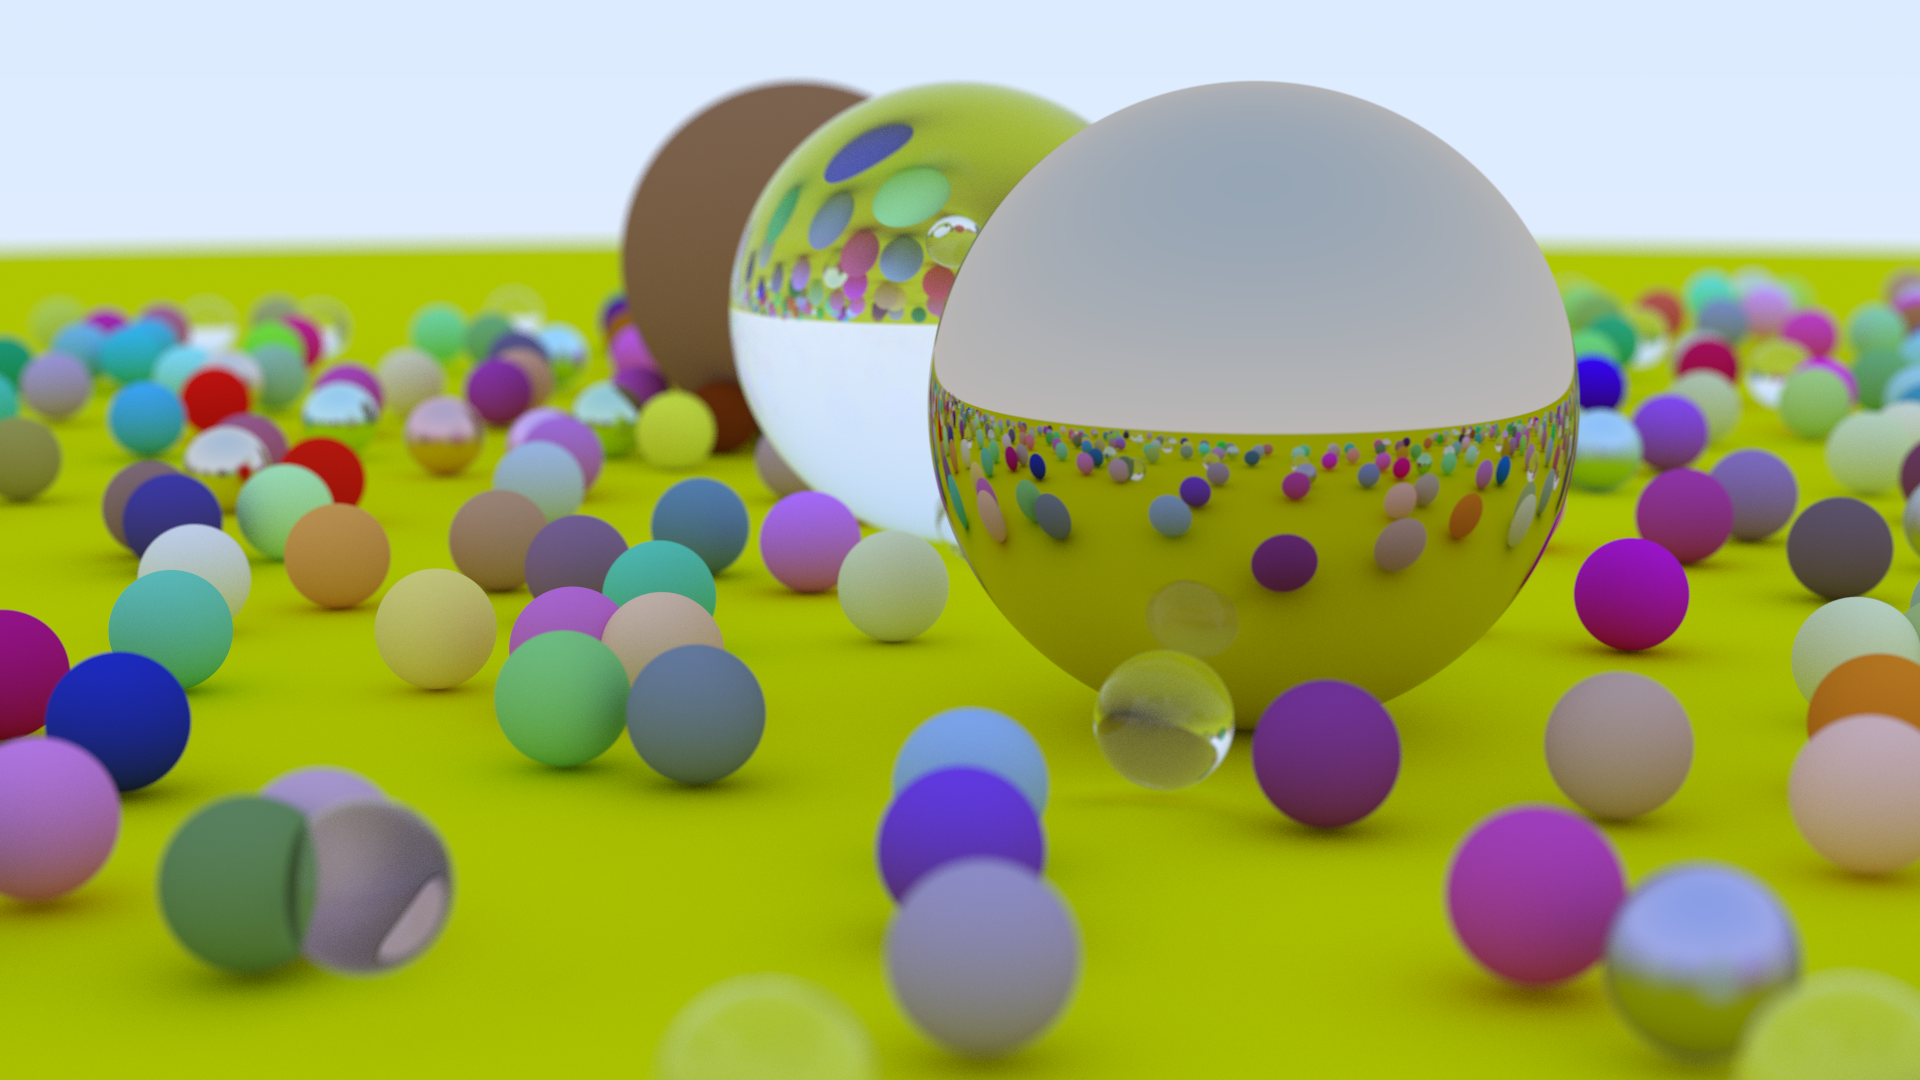
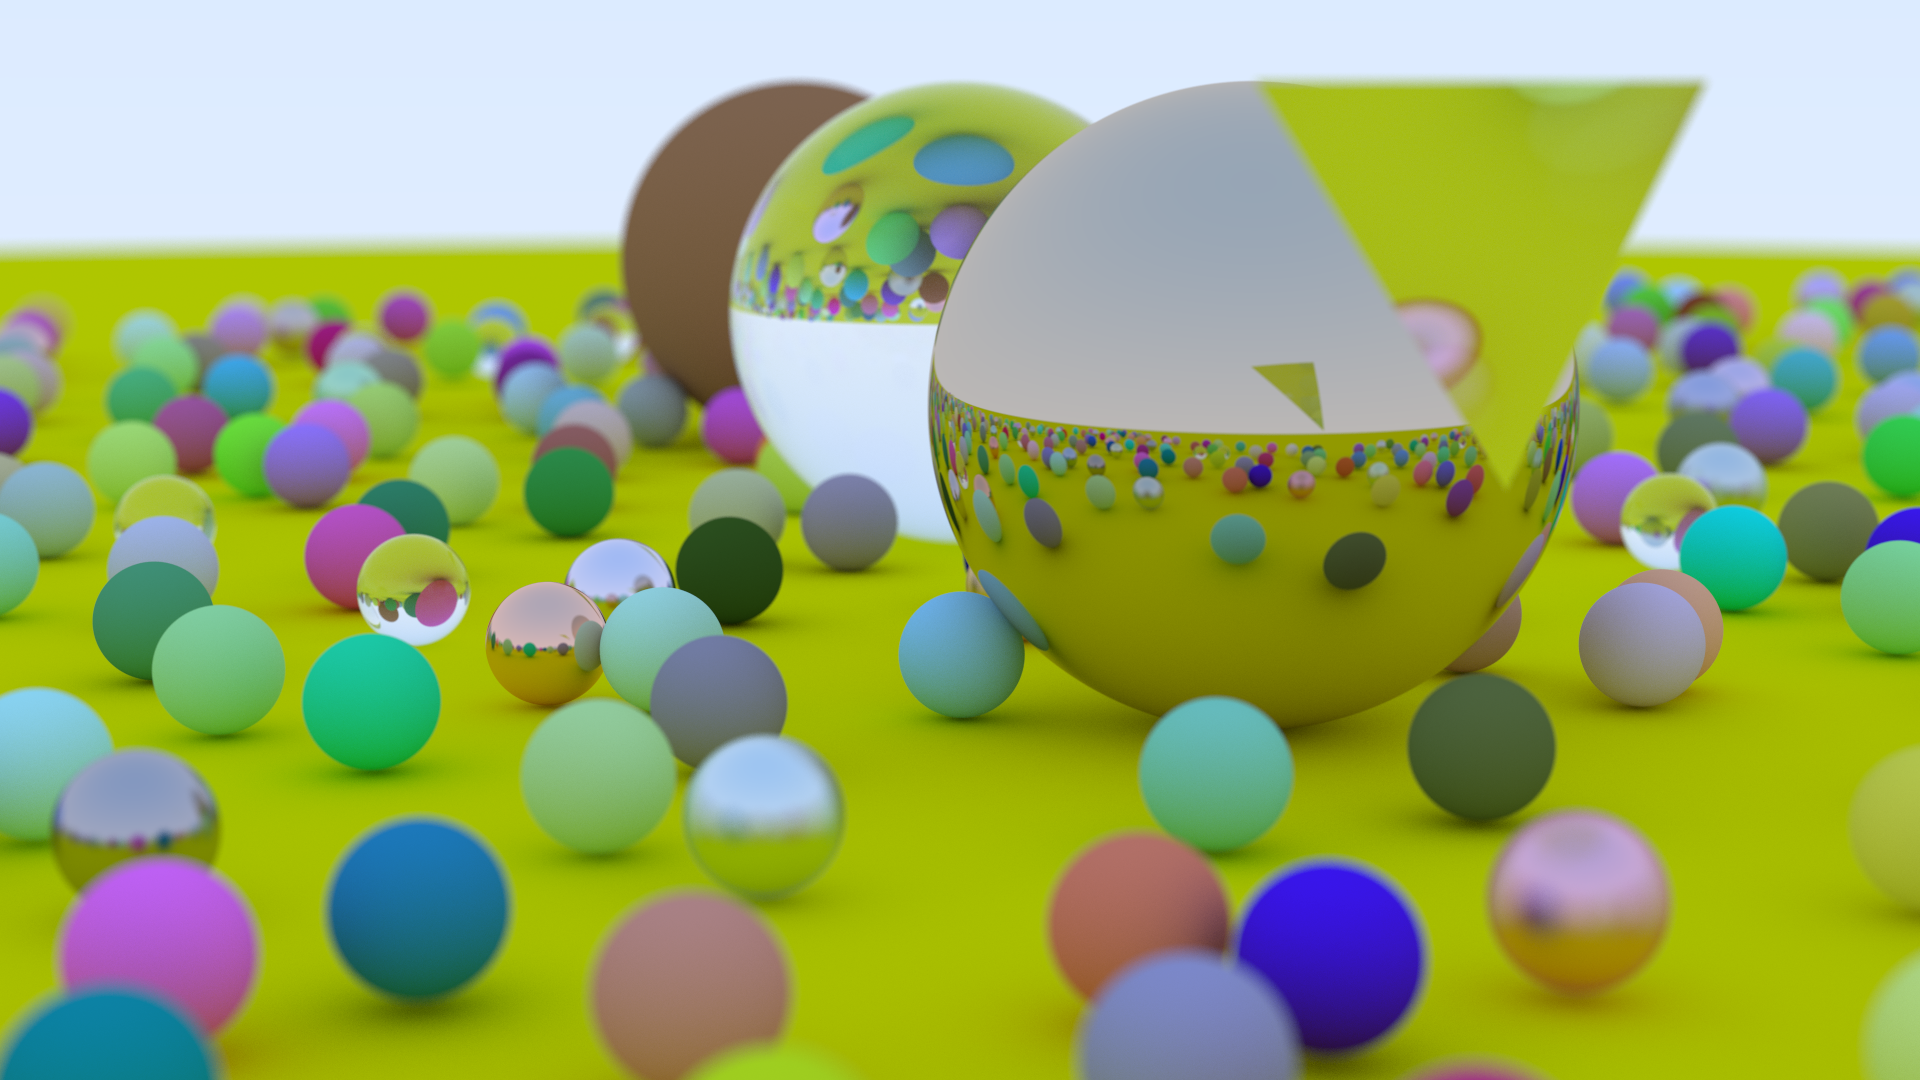
Render new images for the README

diff --git a/src/main.rs b/src/main.rs
@@ -29,7 +29,7 @@ mod vec3;
 fn main() -> Result<()> {
     // Camera setup
     let camera = CameraBuilder::default()
-        .set_image_width(400)
+        .set_image_width(1280)
         .set_aspect_ratio(16.0 / 9.0)
         .set_max_depth(50)
         .set_anti_aliasing(camera::AntiAliasing::Random(500))

diff --git a/README.md b/README.md
@@ -1,7 +1,13 @@
 # rustrace
-Raytracer in Rust rougly following [Raytracing in One Weekend](https://raytracing.github.io/).
+Raytracer in Rust rougly following [Raytracing in One Weekend](https://raytracing.github.io/) plus some of my own additions.
 
 ![](final.png)
+
+Rendered at 1000 samples per pixel, 1920x1080, in 13 minutes on an laptop (13th Gen i5-1350P, 16GB DDR5, powersave governor - unplugged!).
+
+![](final_small.png)
+
+Rendered at 500 samples per pixel, 1280x720, in just under 3 minutes (same laptop).
 
 ## Features
 - Geometry:
